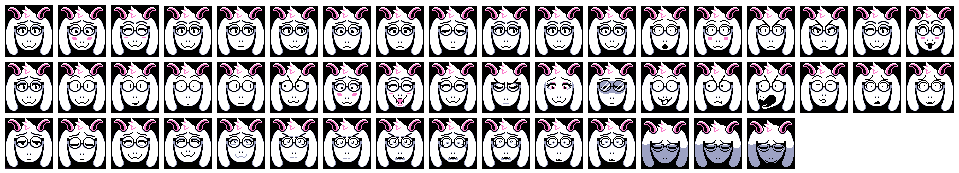
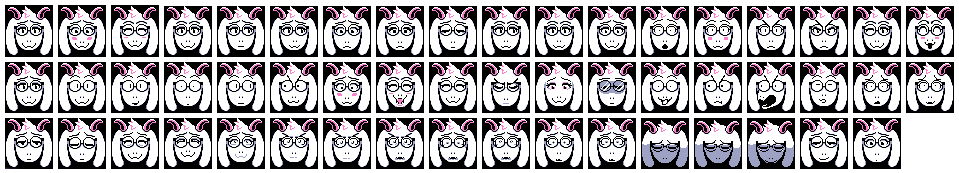
[Web + App] Ralsei update

Changed region(s): [[0.8165, 0.6647, 0.9374, 0.9827]]

diff --git a/web/src/routes/docs/expressions-table/characters.ts b/web/src/routes/docs/expressions-table/characters.ts
@@ -35,7 +35,7 @@ export const chars: Whatever[] = [
     {
         id: "ralsei",
         name: "Ralsei",
-        length: 51
+        length: 53
     },
     {
         id: "susie",
